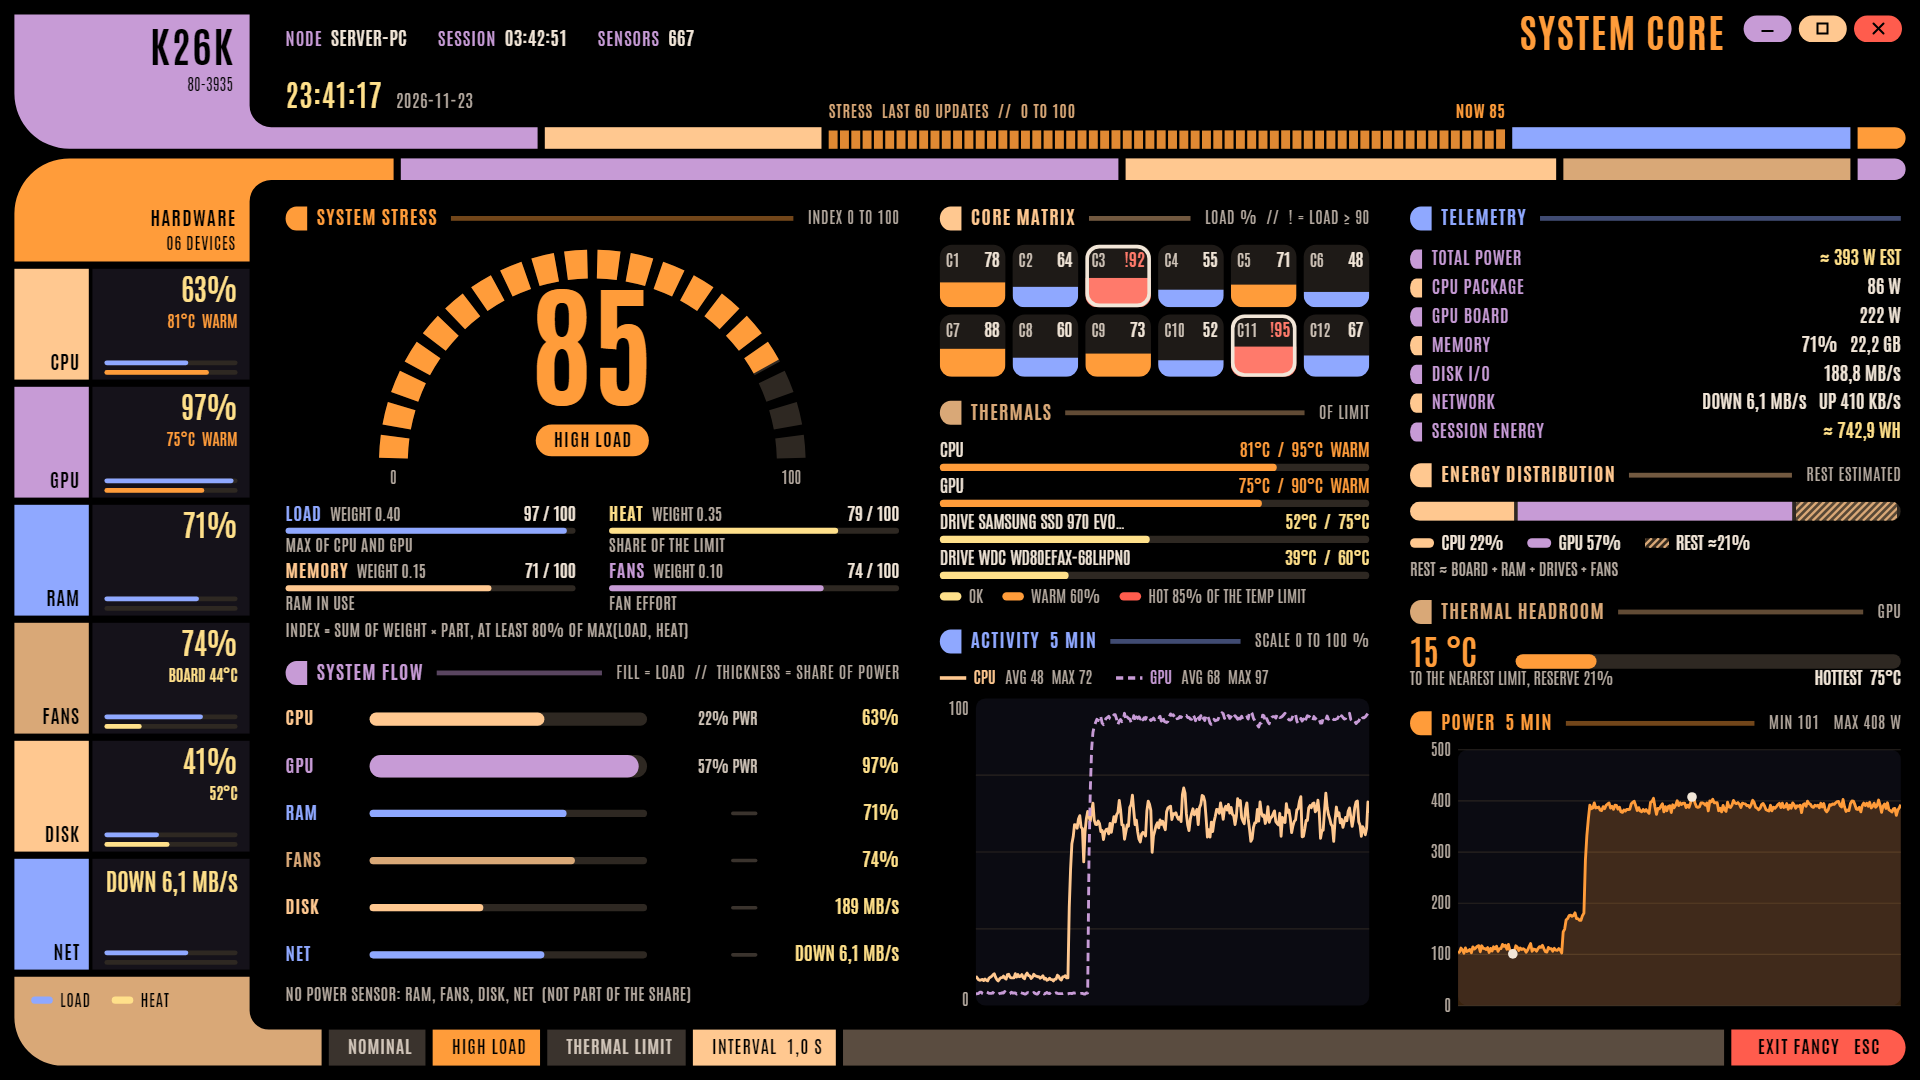
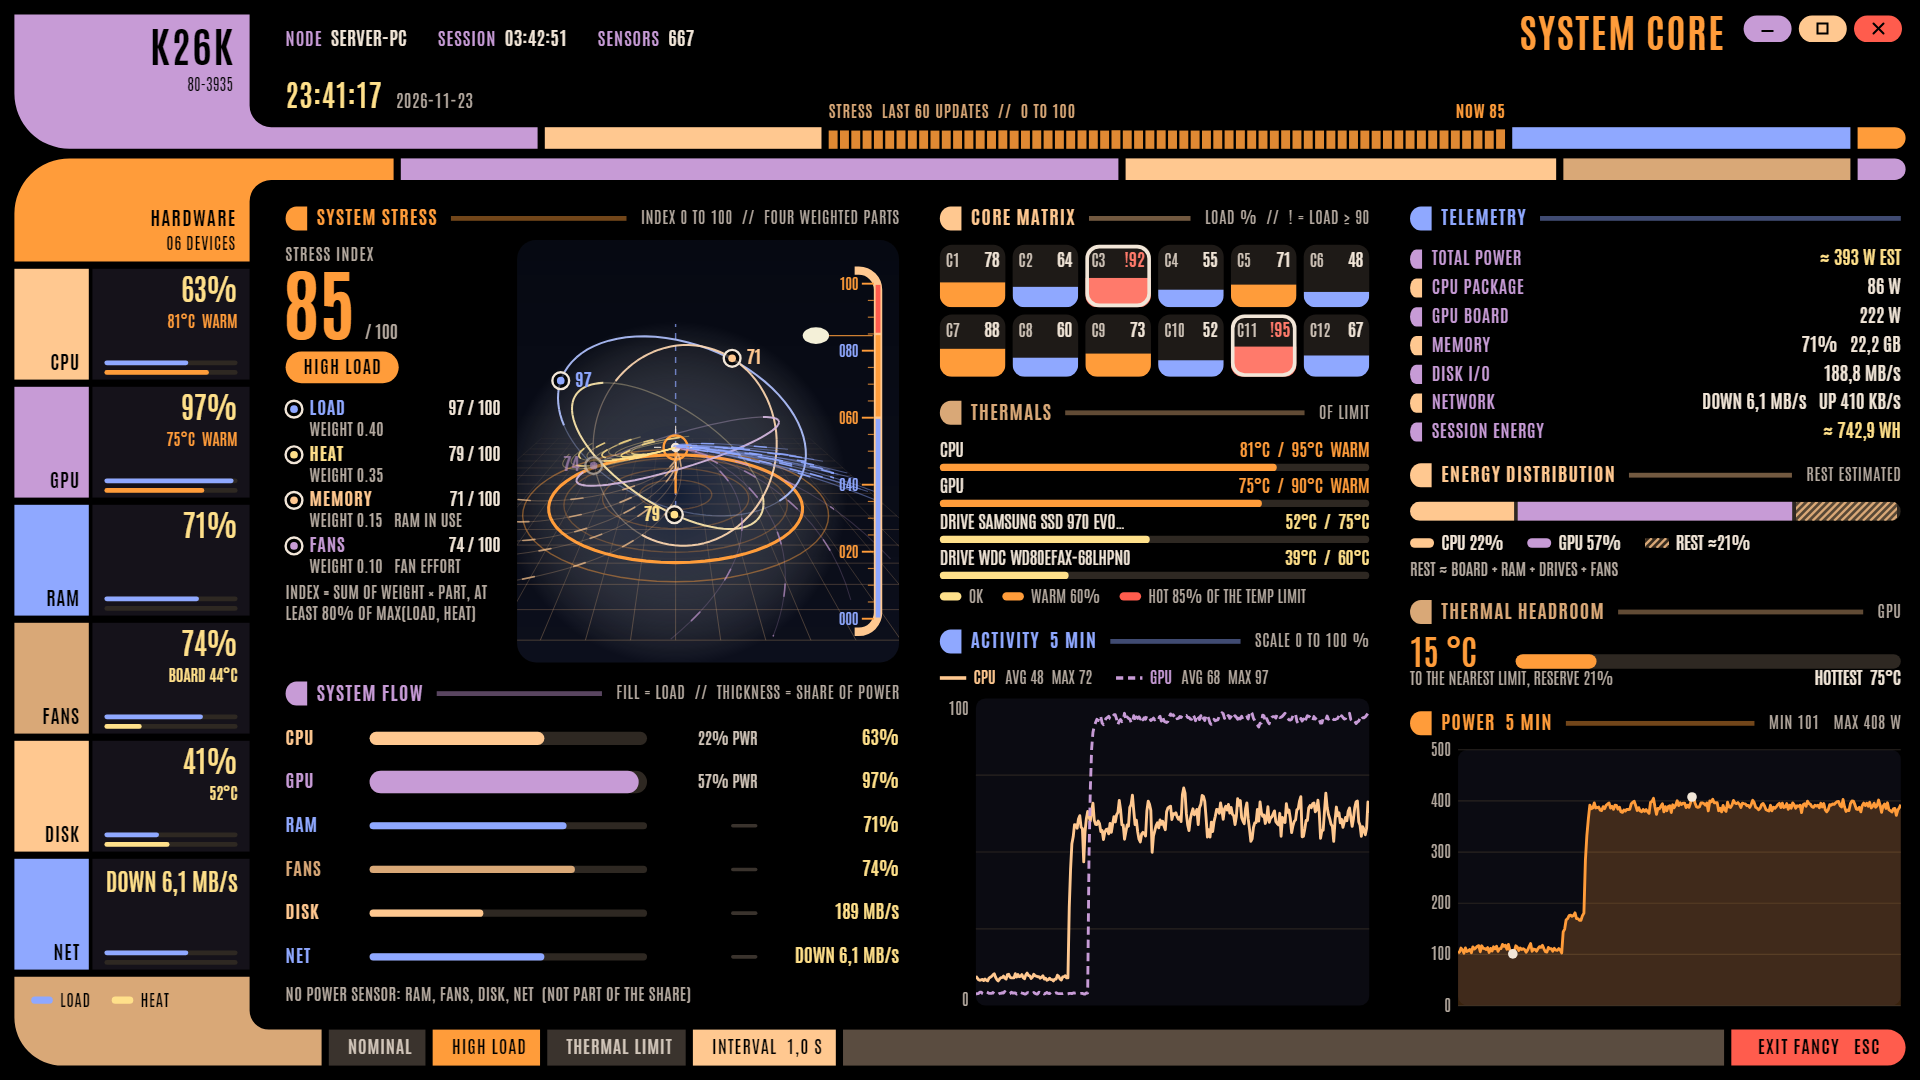
README: the new stress field of Bridge Fancy and a new screenshot

Changed region(s): [[0.125, 0.1833, 0.4688, 0.8861], [0.375, 0.825, 0.4062, 0.8556]]

diff --git a/README.md b/README.md
@@ -22,9 +22,11 @@ The desktop app itself comes with new designs: **Sci-Fi** and **Bridge**, each w
     black. Header with live values, state and FANCY pill, sensor grid and plot in elbow frames, a status strip of
     color blocks. All functions of the classic window stay the same, as in Sci-Fi.
   - **Bridge Fancy** (F11, the FANCY pill or the menu while Bridge is active; **Esc** returns): the Fancy dashboard
-    with the same data and functions in the Bridge look: stress gauge with its four parts, a block per device,
-    system flow (load as fill, share of the power as track thickness), core matrix, thermals, activity,
-    telemetry, energy distribution, thermal headroom and power history. It uses less CPU than Fancy (no glow).
+    with the same data and functions in the Bridge look: a stress field (the index on a perspective floor with
+    a scale, a tilted orbit per stress part whose radius is its value, a marker circling on it and streams that
+    flow into the core with the part's share), a block per device, system flow (load as fill, share of the power
+    as track thickness), core matrix, thermals, activity, telemetry, energy distribution, thermal headroom and
+    power history. It needs about as much CPU as Fancy.
   - Sci-Fi, Bridge and both dashboards have no Windows title bar: minimize, maximize and close are drawn in the
     design (Sci-Fi and Bridge at the right of the menu row, the dashboards in their top strip). The menu row, the header and the top strip move the window
     (drag, double click to maximize, snap), the window edges resize it.
@@ -41,7 +43,7 @@ The desktop app itself comes with new designs: **Sci-Fi** and **Bridge**, each w
     <img src="docs/images/desktop-bridge.png" alt="Bridge design under full CPU load: elbow frames, colored pill menu, sensor grid with rounded meters and plot" width="800">
   </p>
   <p>
-    <img src="docs/images/desktop-bridge-fancy.png" alt="Bridge Fancy dashboard: device blocks in the left arm, stress gauge, system flow, core matrix, thermals, telemetry and power history" width="800">
+    <img src="docs/images/desktop-bridge-fancy.png" alt="Bridge Fancy dashboard: device blocks in the left arm, stress field with orbits and a scale, system flow, core matrix, thermals, telemetry and power history" width="800">
   </p>
 
   <sub>Sci-Fi and Bridge windows under full CPU load (real data), the dashboards with a sample load scenario.

diff --git a/docs/desktop-design-council/bridge/README.md b/docs/desktop-design-council/bridge/README.md
@@ -201,3 +201,20 @@ Polish suggested in the last rounds and left for later: a slightly lighter scrol
 - Switching at runtime: Sci-Fi to Bridge, F11 to Bridge Fancy, Esc back, Classic, F11 from Classic to Fancy, Esc to Sci-Fi; the setting `design` is saved as `bridgefancy` after closing in Bridge Fancy.
 - Smooth values (frame sequence across updates) and the runners on the flow tracks; CPU of Bridge Fancy at 1600x900 about 18 % of one core (Fancy: about 25 %).
 - net472 and net10.0-windows build; the net472 build renders the Bridge header identically.
+
+## After the council: a new stress panel
+
+On the owner's request the stress block of Bridge Fancy (a segmented half ring with the four parts below it) was
+replaced after the council had finished. References from the owner served as ideas only: a perspective grid with
+orbits, fine line bundles with labeled markers, and a bracket frame with a scale. Everything is drawn anew from
+our own data, and no screen, text or number was copied.
+
+- A text column: index, state, the four parts with their marker, value, weight and meaning, and the formula
+  (shortened or left out when the panel is small).
+- The stress field: a perspective floor with rings at 25 to 100 and a bright ring at the index, a core that rises
+  with the index, a tilted orbit per part whose radius is the part's value with a marker circling on it (faster
+  with a higher value), and streams that flow from each part into the core, more and brighter with its share.
+- A bracket scale from 000 to 100 at the right edge, with the ranges of the states and an oval marker at the index.
+
+Checked at 1366, 1920 and 150 %, with reduced motion, and as a frame sequence in the real window under load;
+CPU at 1600x900 about 22.5 % of one core (Fancy: about 23.6 %). This panel was not reviewed by the council again.
